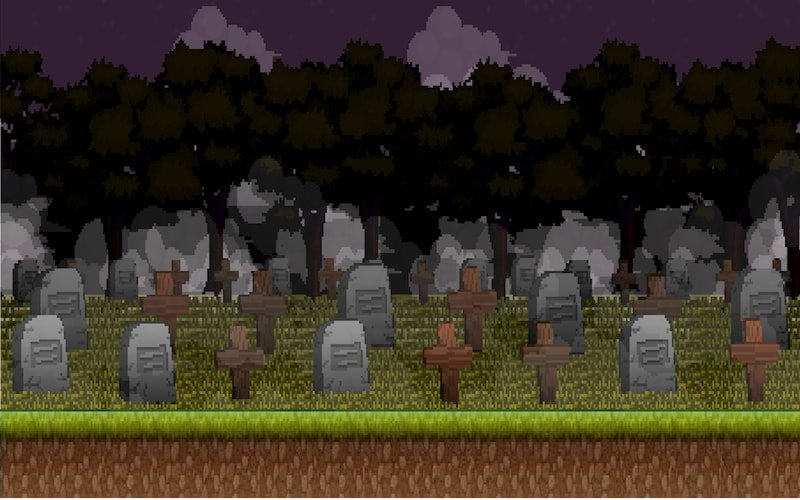
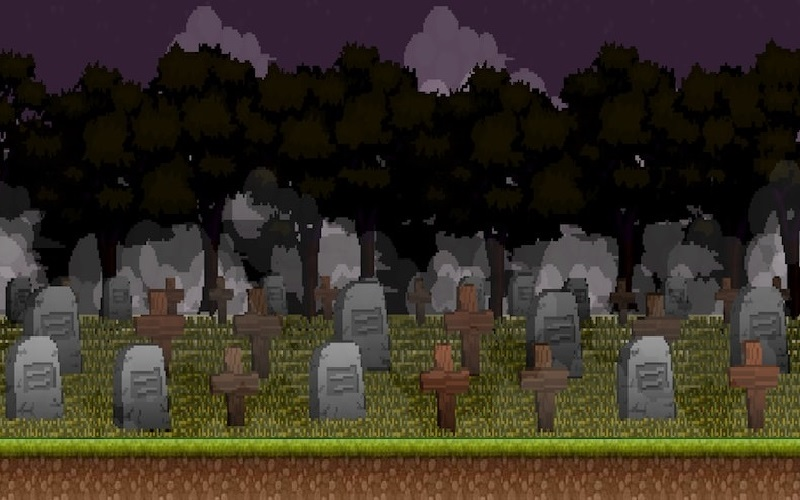
version jugable

diff --git a/lib/datosClases.py b/lib/datosClases.py
@@ -74,8 +74,8 @@ VELOCIDAD_MOVIMIENTO = {
     "swordman": 4,
     "goblin": 2.5,
     "minitroll": 2.7,
-    "imp": 2.9,
-    "frozen": 3.1,
+    "imp": 3.0,
+    "frozen": 2.6,
     "gargolaT": 0
 }
 
@@ -83,8 +83,8 @@ VIDA = {
     "swordman": 16,
     "goblin": 4,
     "minitroll": 6,
-    "imp": 7,
-    "frozen": 9,
+    "imp": 8,
+    "frozen": 12,
     "gargolaT": 24
 }
 
@@ -92,8 +92,8 @@ DANO_ATAQUE = {
     "swordman": [2],
     "goblin": [1, 2],
     "minitroll": [2, 2],
-    "imp": [1, 3],
-    "frozen": [3, 3],
+    "imp": [2, 4],
+    "frozen": [2, 2],
     "gargolaT": [6]
 }
 
@@ -176,9 +176,9 @@ ANIMACION_PING_PONG = {
 
 POSX_OPCION = {
     "jugar": 100,
-    "salir": 700
+    "salir": 698
 }
 # ------------------------OTROS------------------------------
 ULTIMA_ZONA = 2
 VELOCIDAD_TRANSICION = 10
-ALTURA_BASE = 70
+ALTURA_BASE = 60

diff --git a/lib/EnemySpawner.py b/lib/EnemySpawner.py
@@ -12,7 +12,7 @@ class EnemySpawner:
         self.enemigos = enemigos
         self.gameState = gameState
         self.clases = CLASES_ETAPA[self.gameState.getEtapa()]
-        self.spawnDelay = 120 / (dificultad * 1)
+        self.spawnDelay = 120 / (dificultad * 0.8)
         self.tiempoEspera = 200
         self.jefeDesplegado = False
 
@@ -36,7 +36,7 @@ class EnemySpawner:
                 self.desplegarJefe()
             return
         enemigo = Sprite("enemigo", clase, True)
-        enemigo.enemigo(self.dificultad * 0.8, self.objetivo)
+        enemigo.enemigo(self.dificultad, self.objetivo)
         ladoEntrada = randint(0, 1)
         lados = ["left", "right"]
         enemigo.entrar(lados[ladoEntrada])

diff --git a/lib/SpriteEstatico.py b/lib/SpriteEstatico.py
@@ -46,7 +46,7 @@ class SpriteEstatico(pygame.sprite.Sprite):
             if self.opcion == "jugar":
                 imagen = pygame.transform.scale(imagen, (int(imagen.get_rect().w * 2.2), int(imagen.get_rect().h * 2.2)))
             else:
-                imagen = pygame.transform.scale(imagen, (int(imagen.get_rect().w * 1.8), int(imagen.get_rect().h * 1.8)))
+                imagen = pygame.transform.scale(imagen, (int(imagen.get_rect().w * 1.5), int(imagen.get_rect().h * 1.7)))
 
             self.imagenes.append(imagen)
         self.image = self.imagenes[0]

diff --git a/lib/MenuPrincipal.py b/lib/MenuPrincipal.py
@@ -11,7 +11,7 @@ class MenuPrincipal:
         self.opciones = []
         self.cargarOpciones()
 
-        self.titulo = self.font.render("Taberda de Eddartt", True, (200, 100, 30))
+        self.titulo = self.font.render("Taberna de Eddartt", True, (200, 100, 30))
         self.tituloRect = self.titulo.get_rect()
         self.tituloRect.centerx, self.tituloRect.top = WIDTH / 2, 85
 

diff --git a/lib/main.py b/lib/main.py
@@ -48,7 +48,7 @@ class Mercenary:
             if key == "z":
                 self.personaje.saltar()
             if key == "t":
-                self.enemySpawner.desplegarJefe()
+                self.itemSpawner.spawn()
             if key == "left":
                 self.personaje.correr("left")
             if key == "right":
